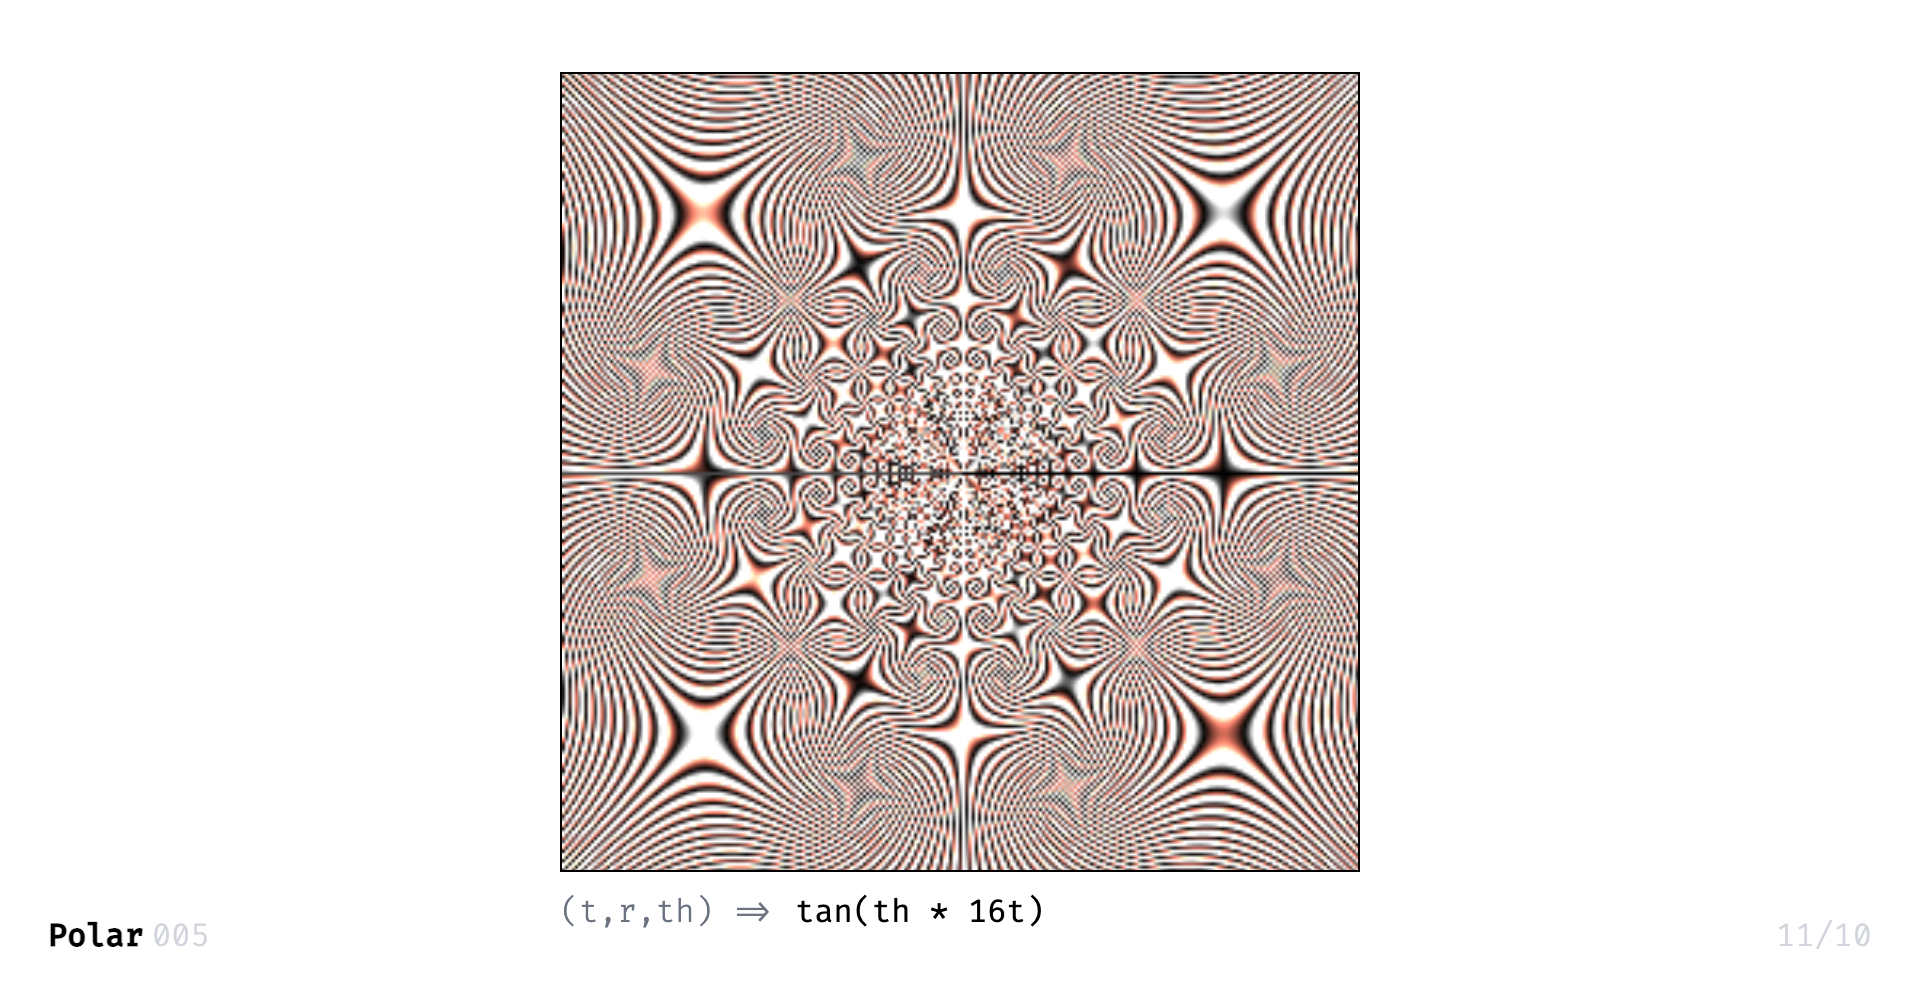
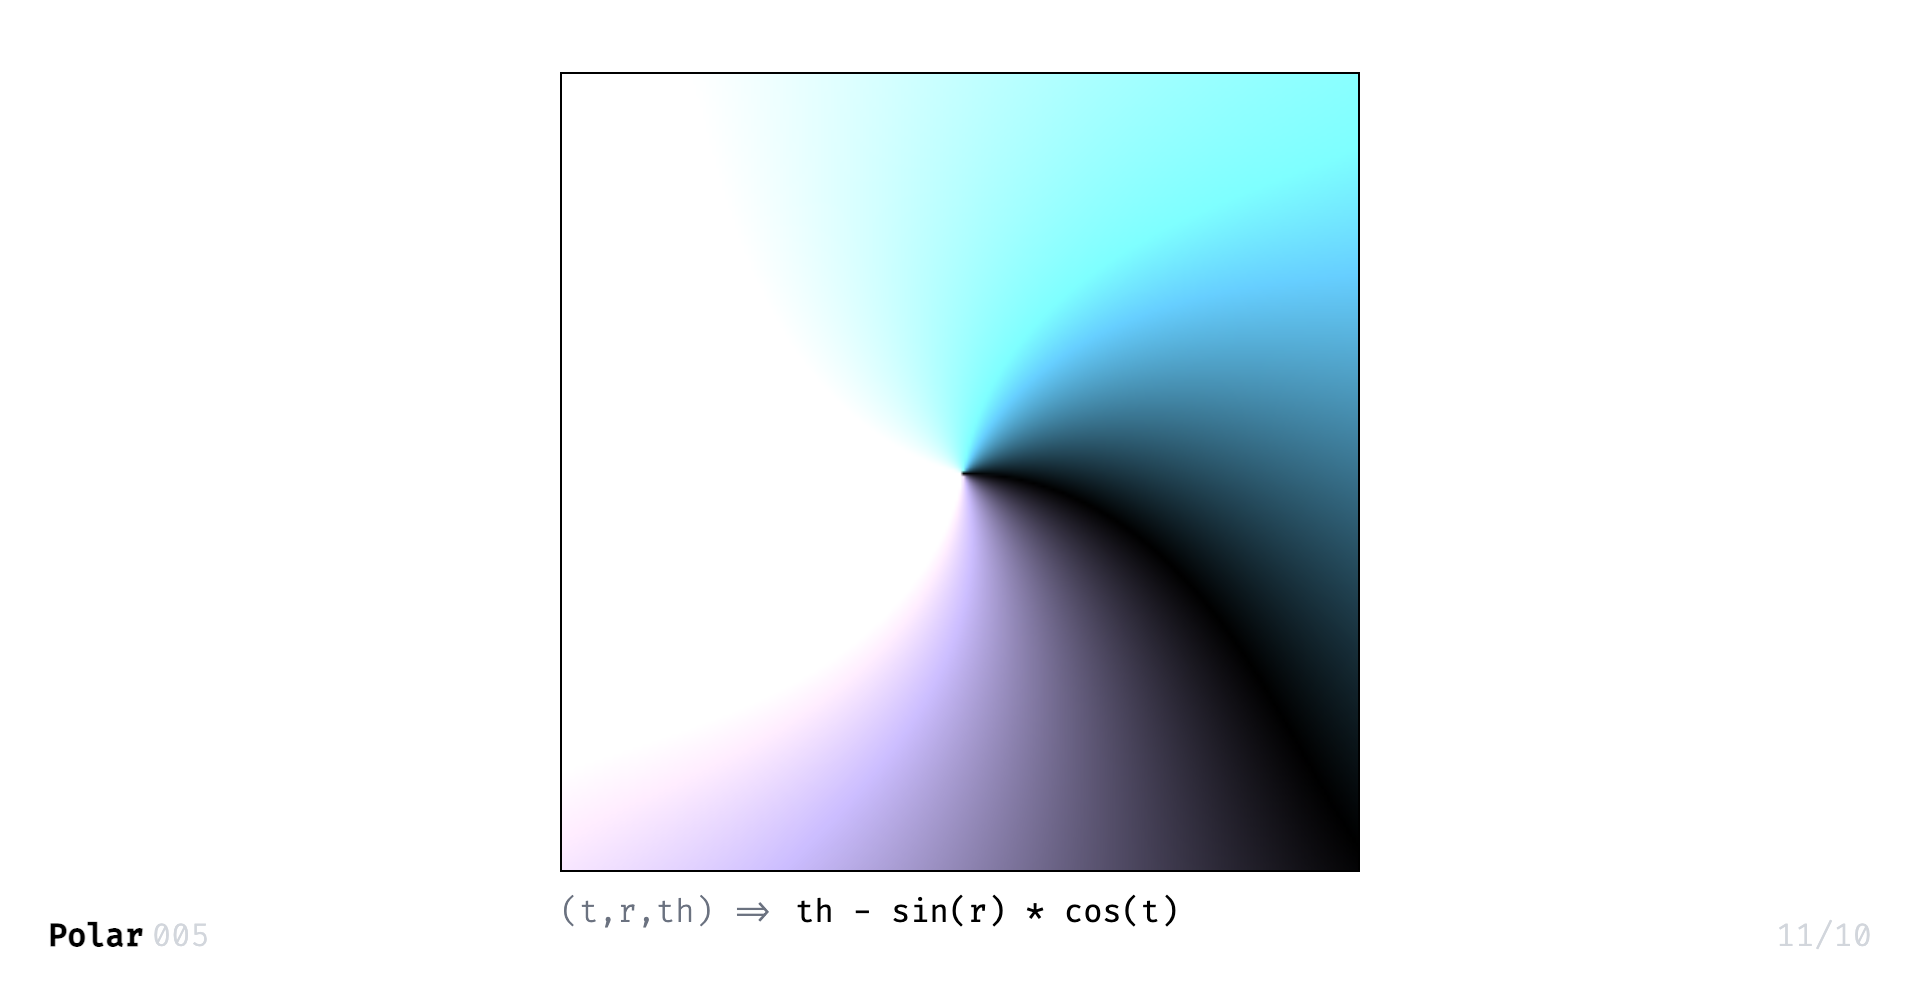
005

diff --git a/src/pages/005.vue b/src/pages/005.vue
@@ -17,9 +17,13 @@ paper
     pre <b>r</b>  - radial    (-1 ~ 1)
     pre <b>th</b> - angular θ (-1 ~ 1)
     br
+    p return value should be in -1 to 1
+    p 0 -> black / 1 -> A / -1 -> B
+    p color A & B will be picked randomly
+    br
     p `Math.` can be omitted
     p `2 * t` can be written as `2t`
-    p urls are sharable
+    p link is sharable
 </template>
 
 <script setup lang='ts'>
@@ -45,15 +49,31 @@ const expressions = shuffle([
   'tan(th) / r / sin(t)',
 ])
 
-const colors = [
-  [190, 194, 63], // lime
-  [178, 143, 206], // purple
-  [241, 124, 103], // pink
-  [80, 222, 191], // teal
-  [239, 187, 36], // yellow
-]
+function hexToRgb(hex: string) {
+  const result = /^#?([a-f\d]{2})([a-f\d]{2})([a-f\d]{2})$/i.exec(hex)!
+  return [
+    parseInt(result[1], 16),
+    parseInt(result[2], 16),
+    parseInt(result[3], 16),
+  ]
+}
 
-let color = pick(colors).map(i => -i)
+const colors = shuffle([
+  '#30896C',
+  '#3A8FB7',
+  '#58B2DC',
+  '#9B90C2',
+  '#A8D8B9',
+  '#BEC23F',
+  '#D05A6E',
+  '#D75455',
+  '#F05E1C',
+  '#F19483',
+  '#F6C555',
+]).map(i => hexToRgb(i))
+
+let colorA = pick(colors)
+let colorB = next(colors, colorA)
 
 export const expression = ref<string>(route.query?.q?.toString() || pick(expressions))
 export const fps = Boolean(route.query?.fps)
@@ -97,8 +117,9 @@ onMounted(async() => {
       const raw = fn(t, radius, th) as any
       const value = +raw
       const it = isNaN(value) ? 0 : value
-      const [r, g, b] = it < 0 ? color : [255, 255, 255]
-      drawPixel(data, x, y, r * it, g * it, b * it)
+      const [r, g, b] = it < 0 ? colorA : colorB
+      const abs = Math.abs(it)
+      drawPixel(data, x, y, r * abs, g * abs, b * abs)
     }
   }
 
@@ -155,7 +176,8 @@ onMounted(async() => {
     (exp, prev) => {
       stop()
       fn = () => 0
-      color = pick(colors).map(i => -i)
+      colorA = pick(colors)
+      colorB = next(colors, colorA)
       if (prev)
         router.replace({ query: { q: exp } })
 

diff --git a/src/components/Note.vue b/src/components/Note.vue
@@ -25,10 +25,11 @@ export const active = ref(false)
 
   .content
     pointer-events none
-    left calc(50% - 250px)
+    left 50%
     width 500px
+    max-width 100vw
     min-height 300px
-    transform translateY(110%)
+    transform translate(-50%, 110%)
     transition 0.3s all ease-in-out
 
   .modal-bg
@@ -39,7 +40,7 @@ export const active = ref(false)
 .note.active
   .content
     display block
-    transform none
+    transform translate(-50%, 0)
     pointer-events auto
   .modal-bg
     opacity 0.2

diff --git a/scripts/screenshot.ts b/scripts/screenshot.ts
@@ -27,7 +27,7 @@ async function run() {
   // await take('002', 8, 500)
   // await take('003', 1, 1500, 5)
   // await take('004', 1, 500)
-  // await take('005', 5, 30000, 5, '&q=tan(th%20*%2016t)')
+  await take('005', 5, 1000, 20, '&q=th%20-%20sin(r)%20*%20cos(t)')
 
   await browser.close()
 }
